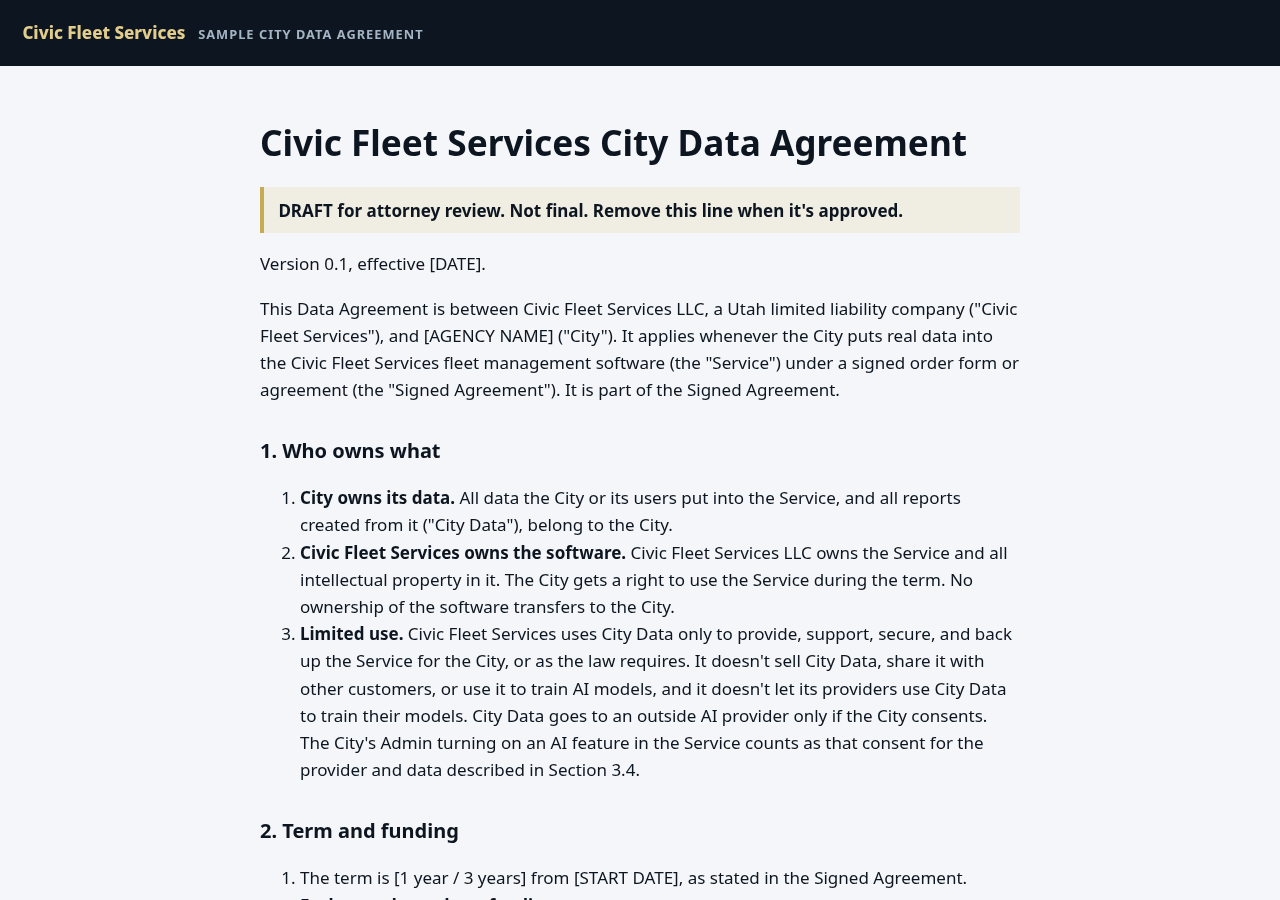
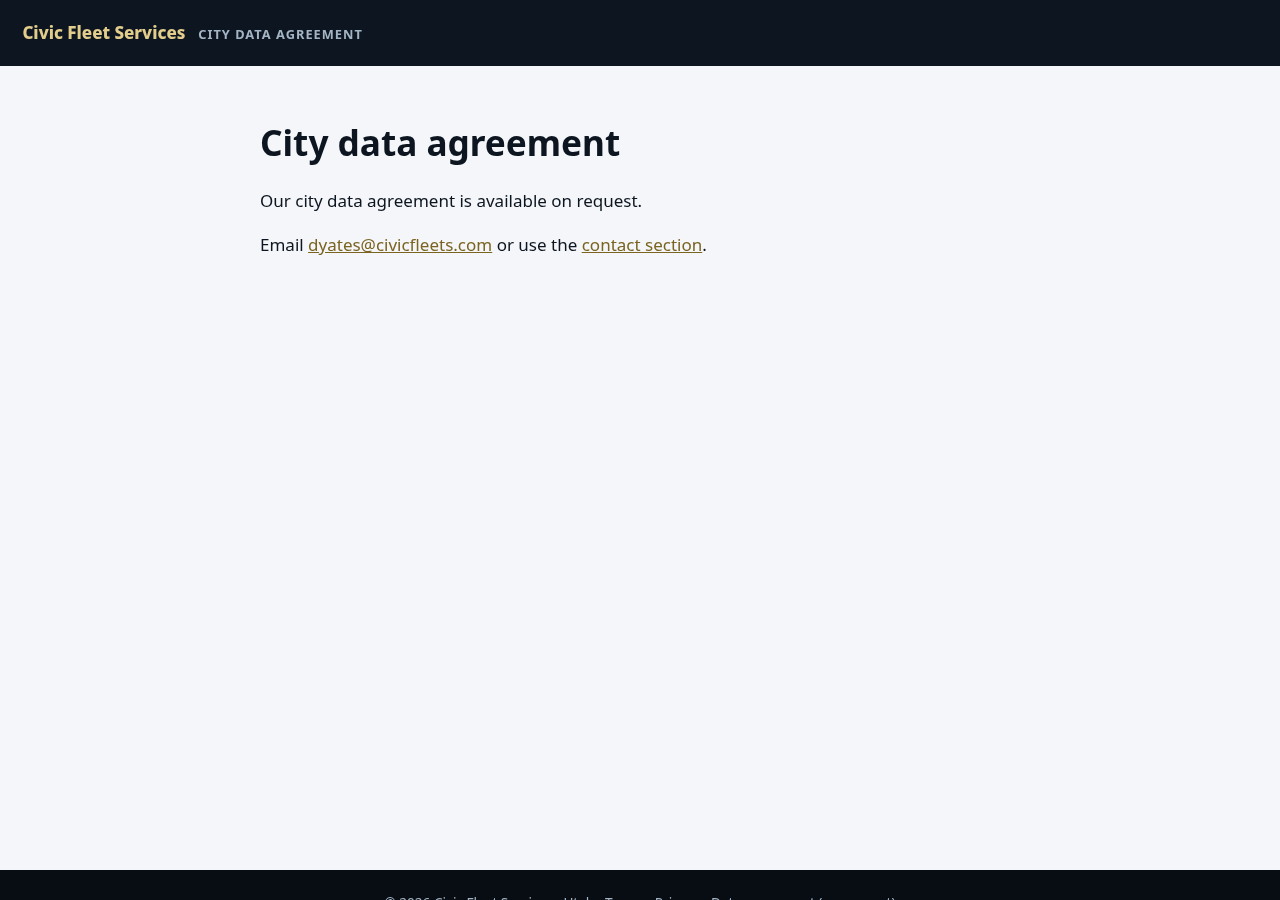
Keep full data agreement off the site: on-request page (noindex), footer label, sitemap entry removed

diff --git a/data-agreement/index.html b/data-agreement/index.html
@@ -1,5 +1,5 @@
 <!doctype html><html lang="en"><head><meta charset="utf-8"><meta name="viewport" content="width=device-width,initial-scale=1"><meta name="theme-color" content="#0D1620">
-<title>Sample city data agreement | Civic Fleet Services</title><link rel="canonical" href="https://civicfleets.com/data-agreement/">
+<title>City data agreement | Civic Fleet Services</title><meta name="robots" content="noindex"><link rel="canonical" href="https://civicfleets.com/data-agreement/">
 <link rel="icon" href="/favicon.svg" type="image/svg+xml"><link rel="icon" href="/favicon-32.png" sizes="32x32"><link rel="apple-touch-icon" href="/apple-touch-icon.png">
 <style>
 :root{--ink:#0d1620;--ink2:#16283a;--amber:#E3CD8C;--brass:#C8AA55;--brass-dark:#7A6420;--paper:#f4f6f9}
@@ -9,80 +9,15 @@ header{background:var(--ink);color:#fff;padding:1.2rem 1.4rem}header a{color:var
 main{max-width:760px;margin:0 auto;padding:2rem 1.4rem 3rem}
 h1{font-size:clamp(1.6rem,4vw,2.2rem);line-height:1.2}h2{font-size:1.25rem;margin-top:2rem}
 a{color:var(--brass-dark)}
-main>p:nth-of-type(1){background:#E3CD8C33;border-left:4px solid var(--brass);padding:.6rem .9rem;font-weight:700}
+
 footer{background:#070d13;color:#a3b4c4;text-align:center;padding:1.4rem;font-size:.85rem}footer a{color:#a3b4c4}
+main{min-height:calc(100vh - 11rem)}
 </style></head><body>
-<header><a href="/">Civic Fleet Services</a><span class="label">Sample city data agreement</span></header>
+<header><a href="/">Civic Fleet Services</a><span class="label">City data agreement</span></header>
 <main>
-<h1>Civic Fleet Services City Data Agreement</h1>
-<p>DRAFT for attorney review. Not final. Remove this line when it's approved.</p>
-<p>Version 0.1, effective [DATE].</p>
-<p>This Data Agreement is between Civic Fleet Services LLC, a Utah limited liability company ("Civic Fleet Services"), and [AGENCY NAME] ("City"). It applies whenever the City puts real data into the Civic Fleet Services fleet management software (the "Service") under a signed order form or agreement (the "Signed Agreement"). It is part of the Signed Agreement.</p>
-<h2>1. Who owns what</h2>
-<ol>
-<li><strong>City owns its data.</strong> All data the City or its users put into the Service, and all reports created from it ("City Data"), belong to the City.</li>
-<li><strong>Civic Fleet Services owns the software.</strong> Civic Fleet Services LLC owns the Service and all intellectual property in it. The City gets a right to use the Service during the term. No ownership of the software transfers to the City.</li>
-<li><strong>Limited use.</strong> Civic Fleet Services uses City Data only to provide, support, secure, and back up the Service for the City, or as the law requires. It doesn't sell City Data, share it with other customers, or use it to train AI models, and it doesn't let its providers use City Data to train their models. City Data goes to an outside AI provider only if the City consents. The City's Admin turning on an AI feature in the Service counts as that consent for the provider and data described in Section 3.4.</li>
-</ol>
-<h2>2. Term and funding</h2>
-<ol>
-<li>The term is [1 year / 3 years] from [START DATE], as stated in the Signed Agreement.</li>
-<li><strong>Each year depends on funding.</strong> Each year after the first depends on the City's governing body approving funding. If funding isn't approved, the City may end the Signed Agreement at the end of the funded year with written notice.</li>
-<li><strong>No early-exit penalty.</strong> If the City ends the agreement for lack of funding, it owes no fee, penalty, or repayment of credits or discounts. It pays only for service already received.</li>
-</ol>
-<h2>3. Security</h2>
-<ol>
-<li>Civic Fleet Services will keep reasonable administrative, technical, and physical safeguards for City Data, as described in its current security policies (attached or linked). It won't materially reduce those safeguards during the term.</li>
-<li><strong>Hosting:</strong> United States only (currently DigitalOcean). Each City's data is kept separate from other customers' data. <strong>[Attorney/Dan: confirm the current state of uploaded-file storage and backups before signing.]</strong></li>
-<li>Subprocessors: Civic Fleet Services will keep a current list and give the City notice before adding one that will process City Data.</li>
-<li><strong>Optional AI repair-note drafting.</strong> This is off unless the City's Admin turns it on, and the Admin can turn it off at any time. Every change is logged.<ul>
-<li><strong>What's sent:</strong> when it's on, the mechanic's repair story, the work order complaint, the unit type or class, and repair-code tables go to xAI (Grok API), using its U.S. endpoint only, so it can draft complaint, cause and correction text and a suggested system code. Names, email addresses and phone numbers are removed automatically first.</li>
-<li><strong>What's never sent:</strong> the City's name, unit numbers, VINs, plates, and user names.</li>
-<li><strong>The mechanic decides:</strong> the AI draft becomes work order text only after the mechanic reviews and accepts it, and the mechanic's original text is always kept. The City is responsible for what its users accept.</li>
-<li><strong>Training and retention:</strong> xAI doesn't use this data for training. Zero Data Retention is on, so xAI doesn't store it and deletes it within one hour. If Zero Data Retention is ever unavailable, Civic Fleet Services turns the feature off until it's back on.</li>
-<li><strong>When it's off:</strong> nothing is sent to xAI.</li>
-<li><strong>New providers:</strong> Civic Fleet Services will give the City 30 days' notice before switching to, or adding, an AI provider.</li>
-</ul>
-</li>
-</ol>
-<h2>4. Security incidents</h2>
-<ol>
-<li>If Civic Fleet Services confirms an incident involving unauthorized access to City Data, it will notify the City's named contact within <strong>[72] hours</strong> of confirming it, and sooner if it can. <strong>[Dan to decide the window.]</strong></li>
-<li>Civic Fleet Services will cooperate with the City's investigation and any notices the City must give, including under Utah Code 13-44-202 or the City's own state's law.</li>
-</ol>
-<h2>5. Public records and legal requests</h2>
-<p>City Data is the City's record. Civic Fleet Services will reasonably help the City respond to public records requests. If Civic Fleet Services gets a subpoena or other legal demand for City Data, it will send the request to the City and tell the City promptly, unless the law forbids that.</p>
-<h2>6. Return and deletion at the end</h2>
-<ol>
-<li><strong>Export anytime.</strong> The City's Admin can export City Data at any time at no charge, using the export tools in the Service.</li>
-<li><strong>After the end date.</strong> The City keeps read-only access for [30] days. Within 30 days of the end date, Civic Fleet Services also provides a final full export of City Data (every table as CSV and JSON, plus uploaded files where available).</li>
-<li><strong>Deletion.</strong> After the City confirms it has its export, or 30 days after the final export is delivered, whichever comes first, Civic Fleet Services deletes City Data from the live system. Deleted data is gone from backups 7 days later. Civic Fleet Services sends the City a written deletion confirmation with the dates.</li>
-<li><strong>Legal holds and retention.</strong> Civic Fleet Services won't delete City Data while the City has given notice of a legal hold or a records-retention need. The City is responsible for its own records retention once it has its export.</li>
-</ol>
-<h2>7. Liability, indemnity, and insurance</h2>
-<p><strong>[DRAFT for attorney review. Insurance limits must match the policies actually bound.]</strong></p>
-<ol>
-<li><strong>Civic Fleet Services defends the City.</strong> Civic Fleet Services will defend the City and its officers and employees against third-party claims, and pay any resulting judgments or settlements it approves, to the extent the claim arises from:<br />
-   a. a claim that the Service, as provided by Civic Fleet Services, infringes a U.S. patent, copyright, or trademark, or misappropriates a trade secret;<br />
-   b. a security incident involving City Data caused by Civic Fleet Services' breach of Section 3 or 4; or<br />
-   c. bodily injury or damage to tangible property caused by the negligence or willful misconduct of Civic Fleet Services or its personnel.</li>
-<li><strong>What's excluded.</strong> Item 1(a) doesn't cover claims caused by City Data, the City's changes to the Service, or use with things Civic Fleet Services didn't provide. If an infringement claim is made, Civic Fleet Services may change the Service so it doesn't infringe, get the right for the City to keep using it, or end the affected part and refund prepaid fees for the unused period.</li>
-<li><strong>How it works.</strong> The City notifies Civic Fleet Services promptly in writing. Civic Fleet Services controls the defense and settlement, but no settlement may admit fault for the City or bind the City without its consent. The City may use its own attorney at its own cost. This section doesn't limit the authority of the City's attorney or any official the law gives control of the City's legal matters.</li>
-<li><strong>Caps.</strong><br />
-   a. Each indemnity in item 1 is capped at the limit of the matching insurance: <strong>$1,000,000</strong> per occurrence for 1(c) (general liability), <strong>$1,000,000</strong> for 1(b) (cyber), and <strong>$2,000,000</strong> for 1(a) (technology errors and omissions), or the actual limits of insurance in force, if higher.<br />
-   b. For all other claims, each party's total liability is capped at the greater of the fees the City paid in the 12 months before the claim or <strong>$1,000,000</strong>.<br />
-   c. Neither party is liable for indirect, incidental, special, consequential, or punitive damages, or for lost profits, except to the extent those amounts are part of a third-party claim covered by item 1.<br />
-   d. The caps don't apply to fraud, willful misconduct, or anything else the law doesn't allow to be limited.</li>
-<li><strong>No City indemnity or waiver.</strong> The City doesn't indemnify Civic Fleet Services. Nothing here waives the City's immunities, defenses, or notice requirements, including under the Governmental Immunity Act of Utah or the City's own state's law.</li>
-<li><strong>Insurance.</strong> During the term, Civic Fleet Services will carry: commercial general liability of $1,000,000 per occurrence and $2,000,000 aggregate; technology errors and omissions of $2,000,000; cyber and privacy liability of $1,000,000; and hired and non-owned auto of $1,000,000 if it drives on City business. The City is named as additional insured on the general liability policy, which is primary and non-contributory and includes a waiver of subrogation in the City's favor. Civic Fleet Services gives a certificate of insurance before the City puts real data in the Service and gives 30 days' notice of cancellation. If Civic Fleet Services has no employees, a workers' compensation waiver is provided instead of coverage.</li>
-<li><strong>Free trials.</strong> For free trials and demo-data pilots, the Terms of Service apply instead, including the $100 cap.</li>
-</ol>
-<h2>8. Law</h2>
-<p>Utah law governs, unless the City's own state law requires its own law to apply.</p>
-<h2>Signatures</h2>
-<p>Civic Fleet Services LLC: &#95;&#95;&#95;&#95;&#95;&#95;&#95;&#95;&#95;&#95;&#95;&#95;&#95;&#95;&#95;&#95;&#95;&#95;&#95;&#95;&#95;&#95; Name/Title: &#95;&#95;&#95;&#95;&#95;&#95;&#95;&#95;&#95;&#95;&#95;&#95; Date: &#95;&#95;&#95;&#95;&#95;&#95;&#95;&#95;</p>
-<p>[AGENCY NAME]: &#95;&#95;&#95;&#95;&#95;&#95;&#95;&#95;&#95;&#95;&#95;&#95;&#95;&#95;&#95;&#95;&#95;&#95;&#95;&#95;&#95;&#95; Name/Title: &#95;&#95;&#95;&#95;&#95;&#95;&#95;&#95;&#95;&#95;&#95;&#95; Date: &#95;&#95;&#95;&#95;&#95;&#95;&#95;&#95;</p>
-<p>Approved as to form (if required): &#95;&#95;&#95;&#95;&#95;&#95;&#95;&#95;&#95;&#95;&#95;&#95;&#95;&#95;&#95;&#95;&#95;&#95;&#95;&#95;&#95;&#95; Date: &#95;&#95;&#95;&#95;&#95;&#95;&#95;&#95;</p>
+<h1>City data agreement</h1>
+<p>Our city data agreement is available on request.</p>
+<p>Email <a href="mailto:dyates@civicfleets.com?subject=City%20data%20agreement%20request">dyates@civicfleets.com</a> or use the <a href="/#contact">contact section</a>.</p>
 </main>
-<footer>&copy; 2026 Civic Fleet Services &middot; Utah &middot; <a href="/terms/">Terms</a> &middot; <a href="https://app.civicfleets.com/privacy">Privacy</a> &middot; <a href="/data-agreement/">Data agreement</a></footer>
+<footer>&copy; 2026 Civic Fleet Services &middot; Utah &middot; <a href="/terms/">Terms</a> &middot; <a href="https://app.civicfleets.com/privacy">Privacy</a> &middot; <a href="/data-agreement/">Data agreement (on request)</a></footer>
 </body></html>

diff --git a/index.html b/index.html
@@ -264,7 +264,7 @@ h1.tag{font-size:clamp(1.7rem,3.4vw,2.7rem);line-height:1.12;margin:.6rem 0 1rem
 <h3 id="trial-h">Site under construction</h3><p>The 7-Day Trial is by invitation only for now. Got an invite email? Continue to sign up with your invite code.</p>
 <a class="cta" href="https://app.civicfleets.com/signup">I have an invite code &rarr;</a>
 <button type="button" class="tclose">Close</button></div></dialog>
-<footer>&copy; <span id="y"></span> <span data-name>Civic Fleet Services</span> &middot; Utah &middot; <a href="https://app.civicfleets.com/login" style="color:#a3b4c4">Log in</a> &middot; <a href="/terms/" style="color:#a3b4c4">Terms</a> &middot; <a href="https://app.civicfleets.com/privacy" style="color:#a3b4c4">Privacy</a> &middot; <a href="/data-agreement/" style="color:#a3b4c4">Data agreement</a></footer>
+<footer>&copy; <span id="y"></span> <span data-name>Civic Fleet Services</span> &middot; Utah &middot; <a href="https://app.civicfleets.com/login" style="color:#a3b4c4">Log in</a> &middot; <a href="/terms/" style="color:#a3b4c4">Terms</a> &middot; <a href="https://app.civicfleets.com/privacy" style="color:#a3b4c4">Privacy</a> &middot; <a href="/data-agreement/" style="color:#a3b4c4">Data agreement (on request)</a></footer>
 
 <script>
 const BUSINESS_NAME = "Civic Fleet Services"; // <-- swap the business name here (only place to change)

diff --git a/terms/index.html b/terms/index.html
@@ -69,5 +69,5 @@ footer{background:#070d13;color:#a3b4c4;text-align:center;padding:1.4rem;font-si
 <p>These Terms are the entire agreement about the Service unless a Signed Agreement says otherwise. If a part is unenforceable, the rest still applies. Not enforcing a term isn't a waiver of it. You may not assign these Terms without our consent. We may assign them to a successor of our business with notice.</p>
 <p>Contact: Civic Fleet Services LLC, [MAILING ADDRESS], [CONTACT EMAIL].</p>
 </main>
-<footer>&copy; 2026 Civic Fleet Services &middot; Utah &middot; <a href="/terms/">Terms</a> &middot; <a href="https://app.civicfleets.com/privacy">Privacy</a> &middot; <a href="/data-agreement/">Data agreement</a></footer>
+<footer>&copy; 2026 Civic Fleet Services &middot; Utah &middot; <a href="/terms/">Terms</a> &middot; <a href="https://app.civicfleets.com/privacy">Privacy</a> &middot; <a href="/data-agreement/">Data agreement (on request)</a></footer>
 </body></html>
